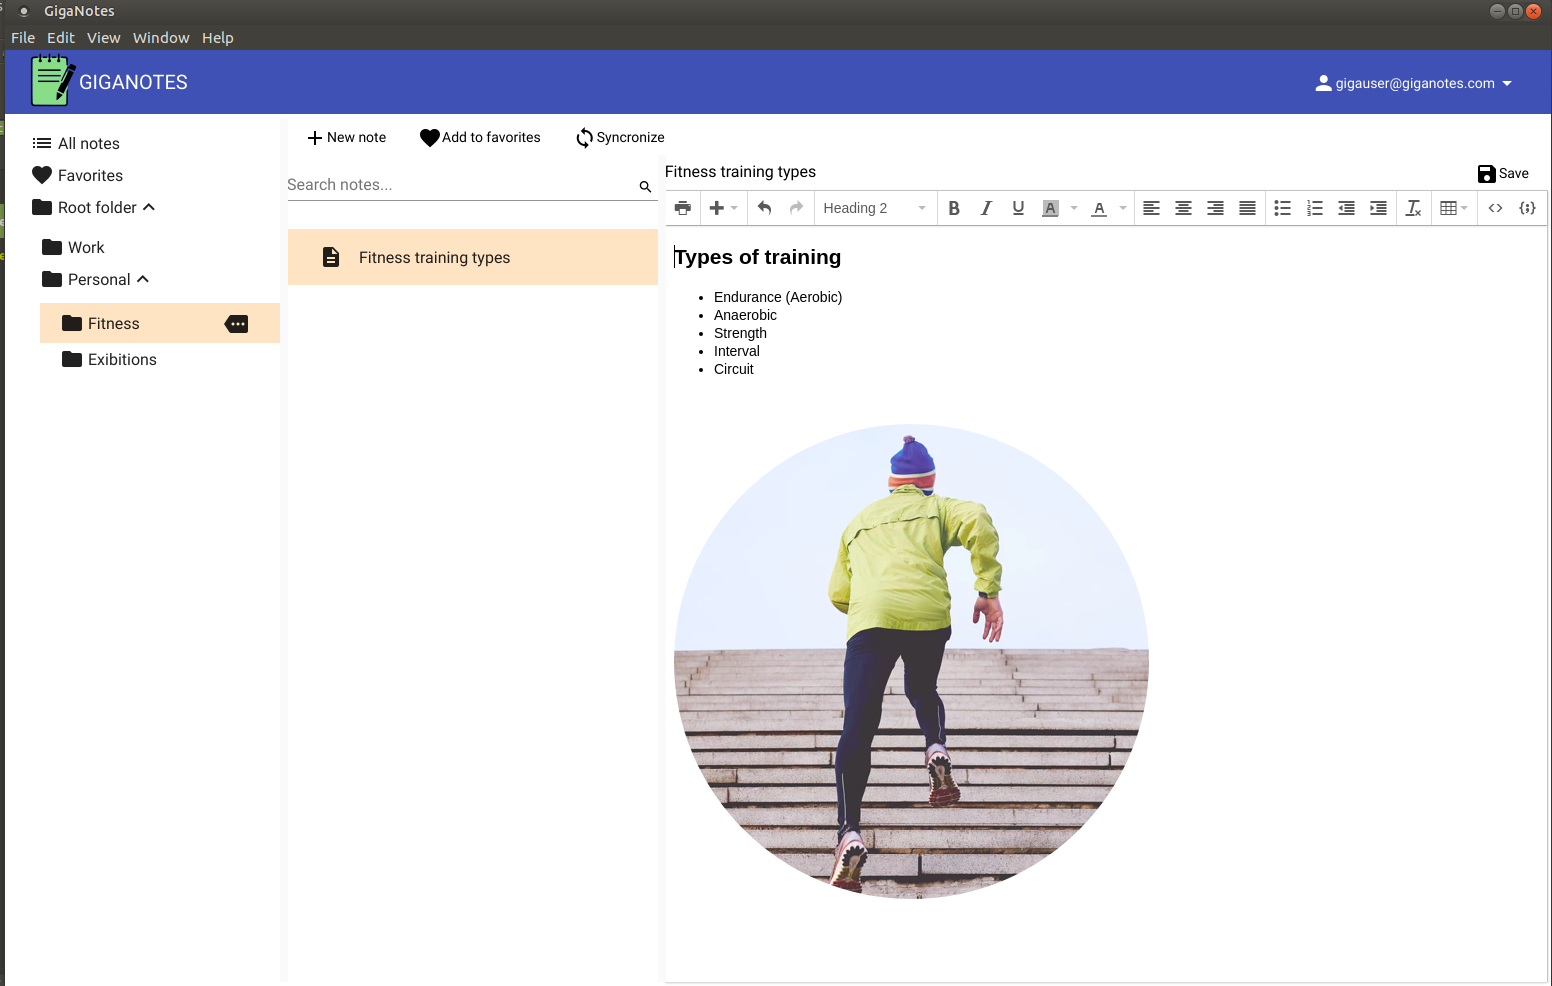
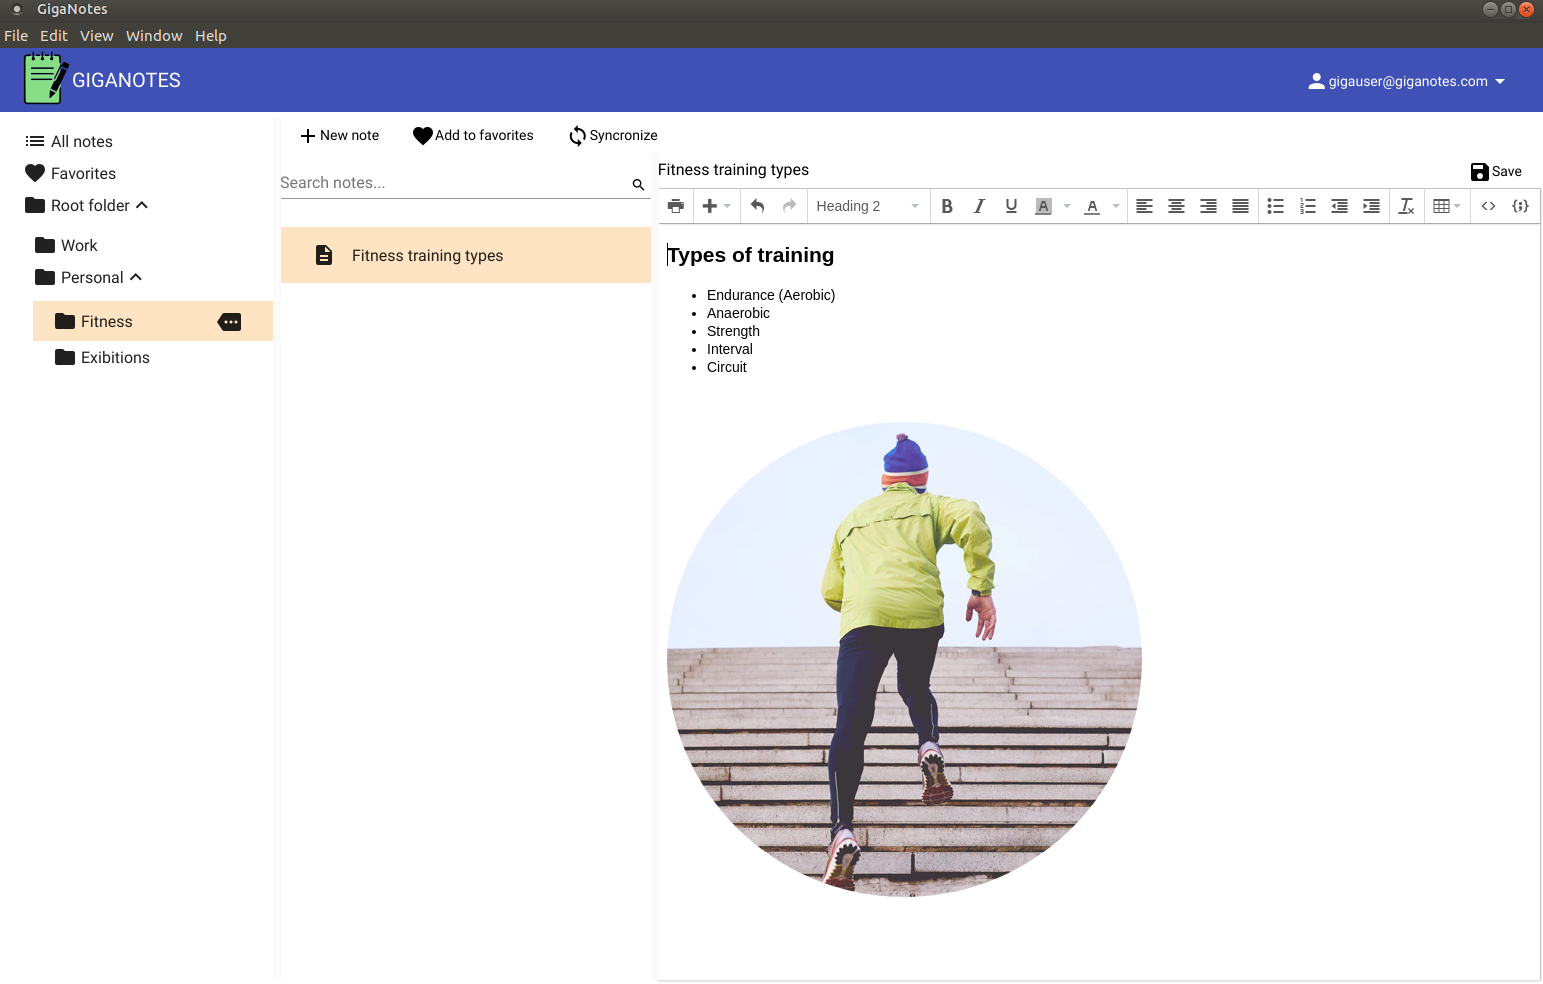
Fix alignment

diff --git a/src/app/home/notes-list-with-editor/notes-list-with-editor.component.ts b/src/app/home/notes-list-with-editor/notes-list-with-editor.component.ts
@@ -1,5 +1,5 @@
-import { Component, OnInit } from '@angular/core';
-import { MatIconRegistry } from '@angular/material';
+import { Component, OnInit, ViewChild } from '@angular/core';
+import { MatIconRegistry, MatInput } from '@angular/material';
 import { DomSanitizer } from '@angular/platform-browser';
 import { ActivatedRoute } from "@angular/router";
 import { LocalNoteService } from '../../services/local-note-service';
@@ -35,6 +35,8 @@ export class NotesListWithEditorComponent implements OnInit {
   mode: string;
   folderId: string;
   noteId: string;
+
+  @ViewChild('noteTitleInput') noteTitleInput: MatInput;
 
   private localEvents = new Subject<any>();
 
@@ -102,7 +104,7 @@ export class NotesListWithEditorComponent implements OnInit {
     sanitizer: DomSanitizer,
     private route: ActivatedRoute,
     private localNoteService: LocalNoteService,
-    private authService: AuthService,
+    public authService: AuthService,
     private syncService: SyncService,
     private eventBusService: EventBusService
   ) {
@@ -230,7 +232,8 @@ export class NotesListWithEditorComponent implements OnInit {
 
   async onNewNote() {
     this.selectedNote = await this.createNote()    
-    this.notes.push(this.selectedNote)
+    this.notes.splice(0, 0, this.selectedNote)    
+    this.noteTitleInput.focus()
   }
 
   async createNote(): Promise<Note> {

diff --git a/src/app/home/notes-list-with-editor/notes-list-with-editor.component.html b/src/app/home/notes-list-with-editor/notes-list-with-editor.component.html
@@ -35,10 +35,10 @@
     </div>
   </div>
 
-  <div fxFlex="65">
+  <div fxFlex="65"  style="margin-left: 1px"> 
     <div fxLayout="column" style="height:100%; width:100%">
       <div fxLayout="row">
-        <input matInput placeholder="Note title" [(ngModel)]="selectedNote.title">      
+        <input #noteTitleInput="matInput" matInput placeholder="Enter note title" [(ngModel)]="selectedNote.title">      
 
         <button mat-button (click)="onSaveNote()">
           <mat-icon>save</mat-icon>Save

diff --git a/src/app/home/home.component.html b/src/app/home/home.component.html
@@ -27,8 +27,10 @@
 
   <div class="content" style="height: 100%">
 
-    <div resizable [sizerBarPosition]="2" fxFlex="20">
-      <app-navigation-tree [items]="items"></app-navigation-tree>
+    <div resizable [sizerBarPosition]="2" fxFlex="20" style="height: 100%">
+      <div style="overflow: auto; height: 100%;">      
+        <app-navigation-tree [items]="items" ></app-navigation-tree>
+      </div>
     </div>
 
 

diff --git a/src/app/home/add-folder-dialog/add-folder-dialog.component.html b/src/app/home/add-folder-dialog/add-folder-dialog.component.html
@@ -2,7 +2,7 @@
 
 <mat-dialog-content>
   <mat-form-field>
-    <input matInput placeholder="Folder name" [(ngModel)]="folderName">
+    <input matInput placeholder="Folder name" [(ngModel)]="folderName" (keyup.enter)="closeWithResult()">
   </mat-form-field>
 </mat-dialog-content>
 

diff --git a/src/app/home/add-folder-dialog/add-folder-dialog.component.ts b/src/app/home/add-folder-dialog/add-folder-dialog.component.ts
@@ -20,4 +20,8 @@ export class AddFolderDialogComponent implements OnInit {
   close(): void {
     this.dialogRef.close();
   }
+
+  closeWithResult() {
+    this.dialogRef.close(this.folderName)
+  }
 }
